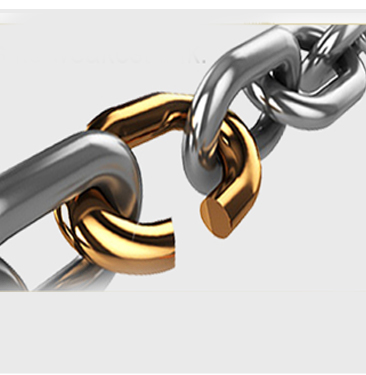
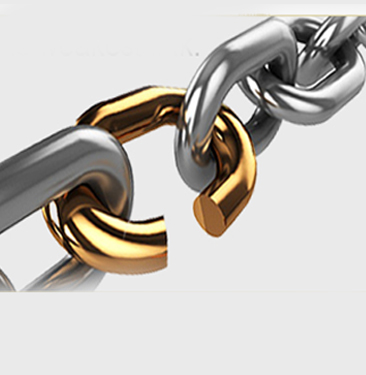
fixed toc page image issue

Changed region(s): [[0.0, 0.0293, 1.0, 0.792]]

diff --git a/toc.html b/toc.html
@@ -44,7 +44,7 @@
 			<div class="container toc pull-left">
 
 				<div class="leftSection pull-left">
-					<img src="images/toc.jpg" alt="Think TOC - Live TOC" title="Think TOC - Live TOC">
+					<img src="images/toc_img.jpg" alt="Think TOC - Live TOC" title="Think TOC - Live TOC">
 				</div><!-- leftSection -->
 
 				<div class="rightSection mCustomScrollbar pull-left">
